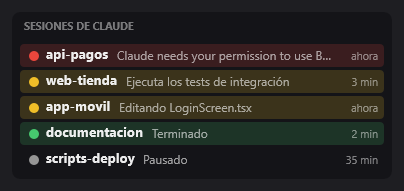
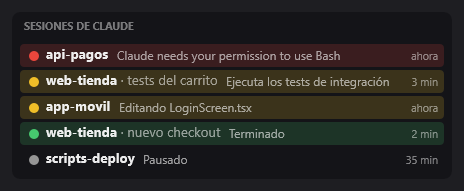
Filas en una sola línea y panel más ancho
El nombre ya no se parte en dos líneas cuando lleva el primer mensaje de la sesión: se corta con puntos suspensivos. Ese mensaje sale en gris y sin negrita. El panel pasa de 380 a 440 px. Capturas del README rehechas con dos sesiones en el mismo proyecto.

diff --git a/src/generar-skin.js b/src/generar-skin.js
@@ -54,8 +54,9 @@ MaxFilas=${MAX}
 AltoFila=26
 AltoTitulo=24
 Margen=8
-Ancho=380
-AnchoMaxNombre=150
+Ancho=440
+AnchoMaxNombre=230
+AltoLinea=19
 Fuente=Segoe UI
 
 ; Devuelve los PID de los claude.exe vivos (",12,34,"). panel.lua lo lanza cada 10 s.
@@ -122,12 +123,19 @@ Hidden=1
 Meter=String
 X=(#Margen# + 26)
 Y=0
+; Una sola línea: el ancho crece con el texto hasta AnchoMaxNombre y lo que no cabe se corta con "…".
 ClipString=2
 ClipStringW=#AnchoMaxNombre#
+ClipStringH=#AltoLinea#
 FontFace=#Fuente#
 FontSize=10
 StringStyle=Bold
 FontColor=255,255,255,235
+; Si hay varias sesiones en el proyecto, lo que va tras " · " (su primer mensaje) sale en gris y sin negrita.
+InlinePattern= · .*
+InlineSetting=Color | 255,255,255,140
+InlinePattern2= · .*
+InlineSetting2=Weight | 400
 AntiAlias=1
 SolidColor=0,0,0,1
 MouseOverAction=[!SetOption Nombre${i} FontColor "130,180,255,255"][!UpdateMeter Nombre${i}][!Redraw]

diff --git a/README.es.md b/README.es.md
@@ -44,7 +44,7 @@ Este panel reúne esa información en un solo sitio, encima del resto de ventana
 <div align="center">
 <table>
 <tr>
-<td align="center"><img src="docs/img/panel-completo.png" alt="Panel con cinco sesiones de Claude Code en distintos estados" width="380"><br><sub>Modo completo</sub></td>
+<td align="center"><img src="docs/img/panel-completo.png" alt="Panel con cinco sesiones de Claude Code en distintos estados, dos de ellas en el mismo proyecto" width="440"><br><sub>Modo completo</sub></td>
 <td align="center"><img src="docs/img/notificacion.png" alt="Notificación de Windows: web-tienda ha terminado" width="370"><br><sub>Notificación con el último mensaje de Claude</sub></td>
 <td align="center"><img src="docs/img/panel-minimo.png" alt="Modo mínimo: una fila de puntos de colores" width="124"><br><sub>Modo mínimo</sub></td>
 </tr>

diff --git a/README.md b/README.md
@@ -44,7 +44,7 @@ This panel puts that information in one place, on top of your other windows.
 <div align="center">
 <table>
 <tr>
-<td align="center"><img src="docs/img/panel-completo.png" alt="Panel with five Claude Code sessions in different states" width="380"><br><sub>Full mode</sub></td>
+<td align="center"><img src="docs/img/panel-completo.png" alt="Panel with five Claude Code sessions in different states, two of them in the same project" width="440"><br><sub>Full mode</sub></td>
 <td align="center"><img src="docs/img/notificacion.png" alt="Windows notification: web-tienda has finished" width="370"><br><sub>Notification with Claude's last message</sub></td>
 <td align="center"><img src="docs/img/panel-minimo.png" alt="Compact mode: a row of coloured dots" width="124"><br><sub>Compact mode</sub></td>
 </tr>
